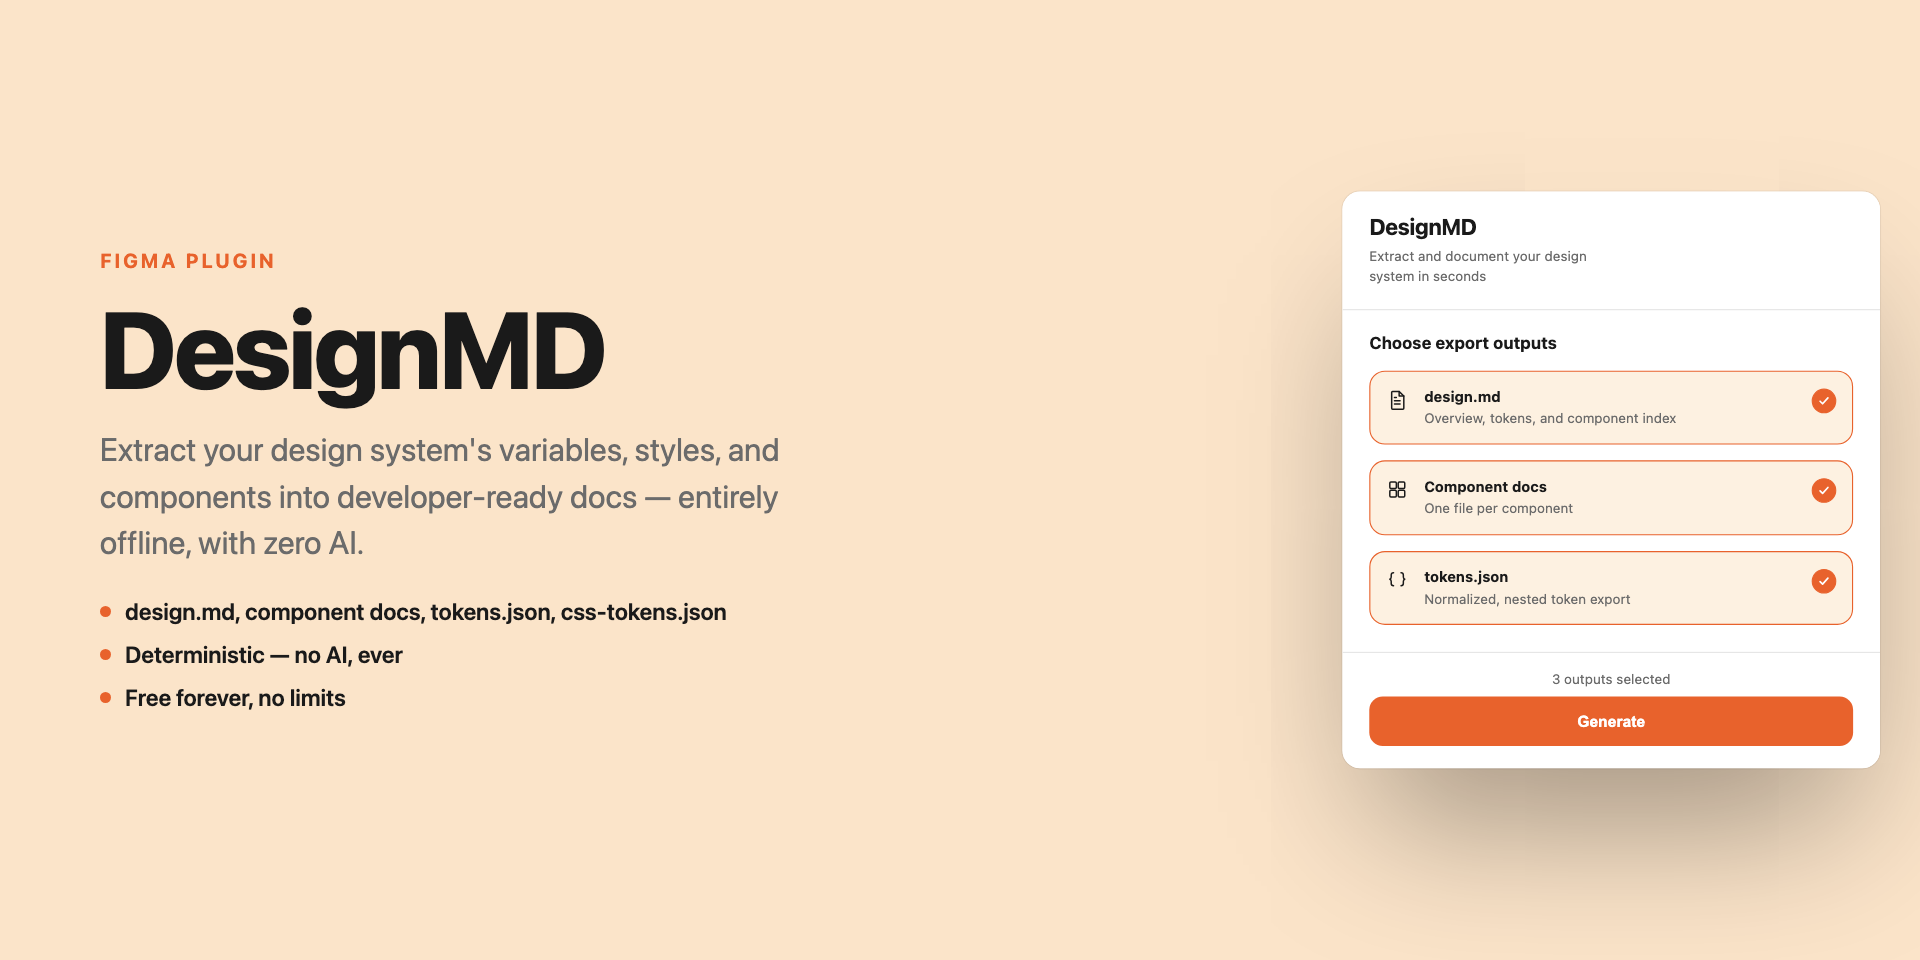
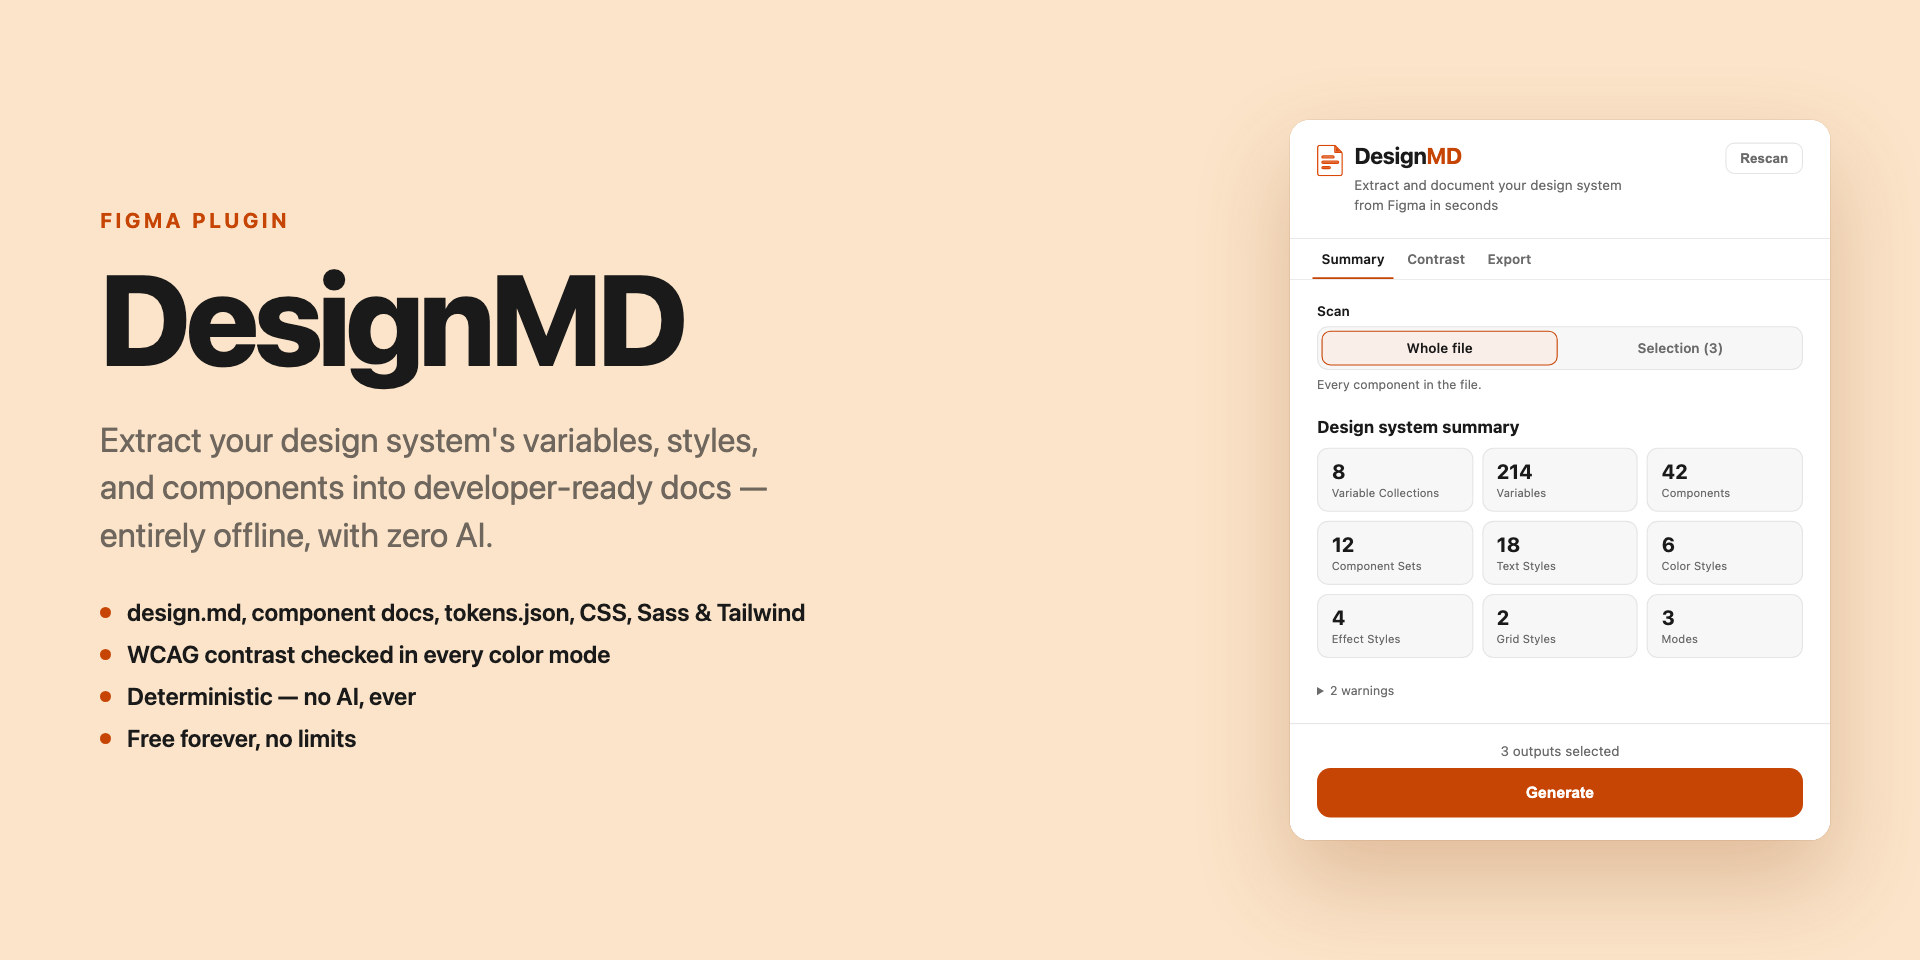
Retake the Community thumbnail with the tabbed UI and updated feature list

diff --git a/DesignMD/assets/community-listing.md b/DesignMD/assets/community-listing.md
@@ -102,7 +102,7 @@ plugin sandbox. Nothing is uploaded anywhere.
 ## Cover / icon / screenshot assets
 
 - `icon.png` — 128×128 plugin icon
-- `thumbnail.png` — 1920×960 Community cover image
+- `thumbnail.png` — 1920×960 Community cover image (headline, feature list, and the tabbed plugin UI)
 - `screenshot-1.png` — 1600×1300 gallery screenshot of the tabbed plugin UI (Summary tab, with realistic sample numbers)
 - `screenshot-2.png` — Contrast tab: user-defined pairs with live ratios and a failing pair
 - `screenshot-3.png` — Files tab: the generated file list with a `tokens.css` preview and Copy
